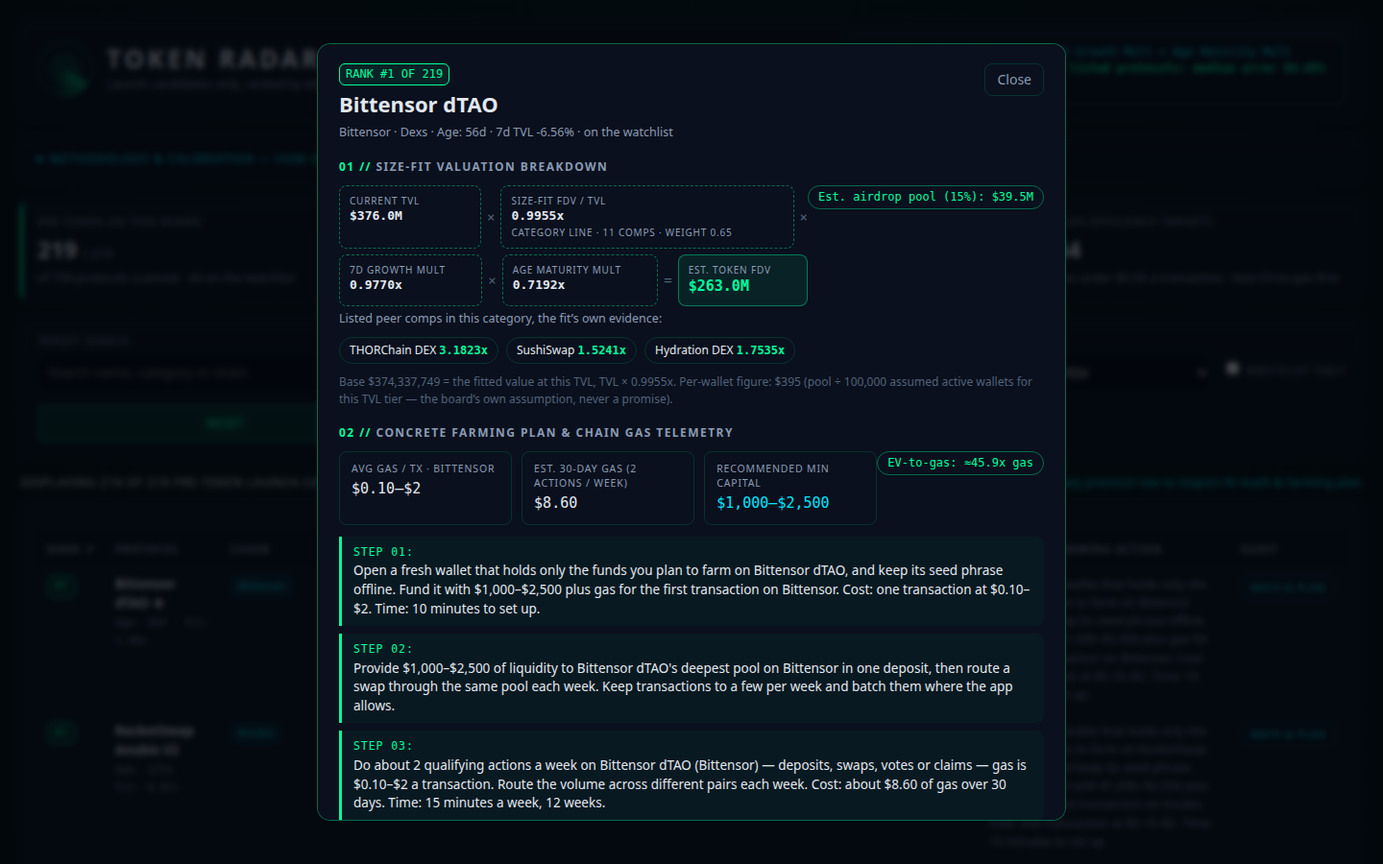
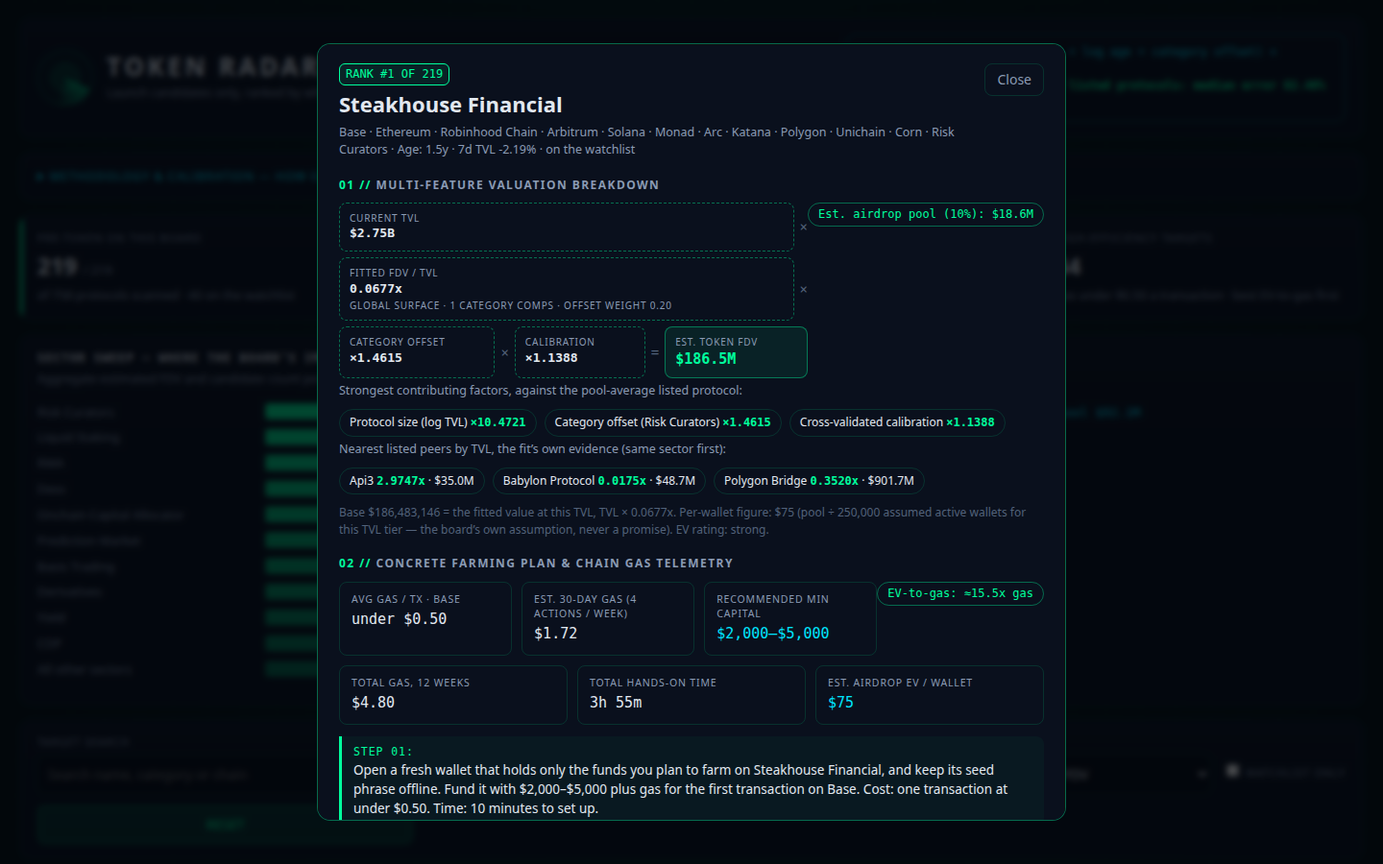
Radar v3 dashboard: sector sweep, EV sorts, plan export, v3 audit view
- Methodology & Calibration rewritten for the selected-pipeline model:
  all eight candidate CV scores, fitted coefficients, trim count,
  calibration multiplier, and the LOO backtest beside v2 (84.65%) and
  v1 (91.81%); growth and chain count documented as tested and rejected.
- Sector Sweep panel: inline SVG bars of aggregate implied FDV, row
  count and airdrop pool per sector, from the board's own fitted values.
- Sorts by airdrop EV per wallet and by EV-to-gas efficiency.
- Detail view shows the factor breakdown (fitted multiple, category
  offset, calibration), top contributing factors and nearest-size peer
  comps, plus 12-week gas total and total hands-on time; EXPORT THIS
  PLAN downloads the visible farm plan as a text file (Blob, offline).
- Screenshots regenerated from the new dashboard (Playwright 1440x900);
  smoke tests cover search, filters, EV sort, sector chart, export.

diff --git a/dashboard/app.js b/dashboard/app.js
@@ -34,6 +34,12 @@
     if (days >= 365) return (days / 365).toFixed(1) + 'y';
     return Math.max(0, Math.round(days)) + 'd';
   }
+  function fmtMinutes(min) {
+    if (min === null || min === undefined || !isFinite(min)) return 'n/a';
+    if (min < 60) return min + ' min';
+    var h = Math.floor(min / 60), m = min % 60;
+    return m > 0 ? h + 'h ' + m + 'm' : h + 'h';
+  }
   function esc(s) { return String(s).replace(/[&<>"]/g, function (c) { return { '&': '&amp;', '<': '&lt;', '>': '&gt;', '"': '&quot;' }[c]; }); }
 
   function el(tag, attrs) {
@@ -107,6 +113,7 @@
       else if (key === 'growth') { av = a.change_7d === null ? -Infinity : a.change_7d; bv = b.change_7d === null ? -Infinity : b.change_7d; }
       else if (key === 'age') { av = a.age_days === null ? Infinity : a.age_days; bv = b.age_days === null ? Infinity : b.age_days; }
       else if (key === 'gas') { av = a.gas.gas_30d_usd; bv = b.gas.gas_30d_usd; }
+      else if (key === 'ev') { av = a.airdrop.per_wallet_usd; bv = b.airdrop.per_wallet_usd; }
       else if (key === 'efficiency') { av = a.gas.ev_gas_multiple === null ? -Infinity : a.gas.ev_gas_multiple; bv = b.gas.ev_gas_multiple === null ? -Infinity : b.gas.ev_gas_multiple; }
       else if (key === 'name') { av = a.name.toLowerCase(); bv = b.name.toLowerCase(); }
       else if (key === 'category') { av = (a.category || 'Other').toLowerCase(); bv = (b.category || 'Other').toLowerCase(); }
@@ -128,9 +135,9 @@
         )
       ),
       el('div', { class: 'formula-pill' },
-        'Est. FDV = Size-Fit Value \u00D7 7d Growth Mult \u00D7 Age Maturity Mult',
+        'Est. FDV = exp(fit on log TVL + log age + category offset) \u00D7 calibration',
         el('br'),
-        el('b', { text: 'Leave-one-out backtest on ' + DATA.backtest.tested + ' listed protocols: median error ' + DATA.backtest.mdape_pct.toFixed(2) + '% \u00B7 previous model ' + DATA.backtest.previous_mdape_pct.toFixed(2) + '%' })
+        el('b', { text: 'Leave-one-out backtest on ' + DATA.backtest.tested + ' listed protocols: median error ' + DATA.backtest.mdape_pct.toFixed(2) + '% \u00B7 v2 ' + DATA.backtest.previous_mdape_pct.toFixed(2) + '% \u00B7 v1 ' + DATA.backtest.first_mdape_pct.toFixed(2) + '%' })
       )
     );
   }
@@ -139,20 +146,63 @@
     var c = DATA.comps;
     var u = DATA.universe;
     var f = DATA.fit;
+    var coef = f.coefficients;
+    var chosenCv = null;
+    f.candidates.forEach(function (cand) { if (cand.chosen) chosenCv = cand.cv_mdape_pct; });
+    var candLines = f.candidates.map(function (cand) {
+      return cand.label + ' \u2014 CV ' + cand.cv_mdape_pct.toFixed(2) + '%' + (cand.chosen ? ' (chosen)' : '');
+    }).join('; ');
     var cells = [
       ['Universe', 'Launch candidates only: ' + DATA.board_size + ' of ' + DATA.pre_token_size + ' pre-token protocols. ' + u.excluded_categories.join(', ') + ' are out: venues and asset movers whose tokens already exist, or claims on existing assets. Of the rest, a protocol qualifies when its category holds at least ' + u.min_category_comps + ' live comps, when it sits on the watchlist, or when its TVL is at least ' + fmtUsd(u.min_tvl_usd) + '. All ' + DATA.watchlist_size + ' watchlist protocols are on the board.'],
-      ['Size fit', 'log(market cap) = ' + f.global_intercept.toFixed(4) + ' + ' + f.global_slope.toFixed(4) + ' \u00D7 log(TVL), fitted on ' + c.pool_size + ' live-token protocols across ' + c.categories_with_comps + ' categories with robust Huber weights, so one outsized listing cannot bend the line. A slope under 1 means value grows slower than TVL.'],
-      ['Category blend', 'A category with at least ' + DATA.config.category_line_min_comps + ' comps gets its own fitted line, blended with the global line at weight n/(n+' + DATA.config.blend_shrink_k + ') on the category. Below that, the global line stands plus the category\u2019s median residual, shrunk by the same weight. ' + f.line_categories + ' categories carry their own line; ' + f.offset_categories + ' ride the global line with an offset.'],
-      ['Backtest', 'Leave-one-out on all ' + DATA.backtest.tested + ' listed protocols: each market cap is predicted from a fit that excludes it, growth and maturity left out. Median error ' + DATA.backtest.mdape_pct.toFixed(2) + '%, median signed error ' + fmtPct(DATA.backtest.median_signed_pct) + '. The previous model, category median multiples, posted a median error of ' + DATA.backtest.previous_mdape_pct.toFixed(2) + '%.'],
-      ['Growth', '1 + clamp(7-day TVL change, \u221250%, +100%) / 100 \u00D7 ' + DATA.config.growth_weight + '. A missing 7-day change counts as no growth (multiplier 1).'],
-      ['Maturity', '0.70 + 0.50 \u00D7 min(age in days, 1460) / 1460. A protocol with no listing date uses 0.95: no bonus, no penalty beyond it.'],
-      ['Own claims', 'Implied values, airdrop pools and per-wallet figures are this board\u2019s own claims, never prices or promises. Airdrop pool: 15% of implied value for Dexs / Lending / Yield, 5% for CEX / Bridge, 10% otherwise. Per-wallet divides the pool by a rough active-wallet count by TVL tier (15k\u2013250k).']
+      ['Model selection', 'Eight candidate pipelines \u2014 feature set (log TVL alone, + log age, + age as a fraction of four years, + an age-missing flag) \u00D7 category shrinkage (k = 3, 4, 6) \u00D7 trimmed or untrimmed fit \u2014 are scored by 5-fold cross-validation on the ' + c.pool_size + ' listed protocols. A challenger replaces the default only when it scores better by more than ' + DATA.config.selection_margin_pct + ' points. On this snapshot the default stands: ' + f.chosen_label + (chosenCv !== null ? ', CV median error ' + chosenCv.toFixed(2) + '%' : '') + '. All eight scores: ' + candLines + '.'],
+      ['The fit', 'log(market cap) is fitted on log TVL and the chosen age term with robust Huber weights, then refitted on the points inside 2.2 median-absolute-deviation sigmas \u2014 ' + f.trimmed_count + ' of ' + c.pool_size + ' comps sit outside and are trimmed as outsized. Fitted coefficients on this snapshot: ' + coef.log_tvl.toFixed(4) + ' per unit of log TVL' + (coef.age !== null && coef.age !== undefined ? ', ' + coef.age.toFixed(4) + ' per unit of the age term' : '') + ', around a centred intercept of ' + coef.intercept_at_pool_mean.toFixed(4) + ' (the prediction at the pool-average profile, before offsets and calibration).'],
+      ['Category offsets', 'Each category adds its median residual to the global surface, shrunk by n/(n+' + f.cat_k + '): a category with 4 comps counts half its offset, one with 36 counts nine-tenths. ' + c.categories_with_comps + ' categories carry an offset; a protocol in a category with no listed comps prices off the global surface alone.'],
+      ['Calibration', 'A constant multiplier of ' + f.calibration_factor.toFixed(4) + ' is applied to every fitted value: the log-space shift that zeroes the median signed percentage error of the pipeline\u2019s own out-of-fold predictions on the listed protocols. It corrects the small systematic tilt a trimmed fit leaves behind.'],
+      ['Backtest', 'Leave-one-out on all ' + DATA.backtest.tested + ' listed protocols: each market cap is predicted by the full procedure \u2014 selection, calibration, fit \u2014 run without it. Median error ' + DATA.backtest.mdape_pct.toFixed(2) + '%, median signed error ' + fmtPct(DATA.backtest.median_signed_pct) + '. The previous models scored worse on the same grade: v2 size fit ' + DATA.backtest.previous_mdape_pct.toFixed(2) + '%, v1 category medians ' + DATA.backtest.first_mdape_pct.toFixed(2) + '%.'],
+      ['Tested and rejected', 'Two snapshot fields are not in the price, because cross-validation scored them worse during development: 7-day TVL growth and chain count. Both still show on the board as data \u2014 the growth column and the chain tags \u2014 but neither moves a fitted value.'],
+      ['Own claims', 'Implied values, airdrop pools and per-wallet figures are this board\u2019s own claims, never prices or promises. Airdrop pool: 15% of implied value for Dexs / Lending / Yield, 5% for CEX / Bridge, 10% otherwise \u2014 the 5\u201315% band each farm plan states. Per-wallet divides the pool by a rough active-wallet count by TVL tier (15k\u2013250k).']
     ];
     return el('details', { class: 'method panel' },
       el('summary', { text: 'Methodology & Calibration \u2014 how each number is earned' }),
       el('div', { class: 'grid' }, cells.map(function (pair) {
         return el('div', { class: 'cell' }, el('b', { text: pair[0] }), document.createTextNode(pair[1]));
       }))
+    );
+  }
+
+  function sectorPanel() {
+    var byCat = {};
+    DATA.rows.forEach(function (r) {
+      var key = r.category || 'Other';
+      if (!byCat[key]) byCat[key] = { count: 0, fdv: 0, pool: 0 };
+      byCat[key].count += 1;
+      byCat[key].fdv += r.implied_value_usd;
+      byCat[key].pool += r.airdrop.pool_usd;
+    });
+    var cats = Object.keys(byCat).map(function (k) { return { name: k, count: byCat[k].count, fdv: byCat[k].fdv, pool: byCat[k].pool }; });
+    cats.sort(function (a, b) { return b.fdv - a.fdv; });
+    var top = cats.slice(0, 10);
+    if (cats.length > 10) {
+      var rest = { name: 'All other sectors', count: 0, fdv: 0, pool: 0 };
+      cats.slice(10).forEach(function (c) { rest.count += c.count; rest.fdv += c.fdv; rest.pool += c.pool; });
+      top.push(rest);
+    }
+    var max = top.length ? top[0].fdv : 1;
+    var W = 1320, rowH = 26, H = top.length * rowH + 8;
+    var svg = '<svg viewBox="0 0 ' + W + ' ' + H + '" width="100%" role="img" aria-label="Board value by sector">';
+    top.forEach(function (c, i) {
+      var y = 6 + i * rowH;
+      var w = Math.max(2, Math.round((c.fdv / max) * 640));
+      var op = (0.95 - i * 0.055).toFixed(2);
+      svg += '<text x="0" y="' + (y + 13) + '" class="svg-lab">' + esc(c.name) + '</text>';
+      svg += '<rect x="230" y="' + y + '" width="' + w + '" height="16" rx="3" fill="#00FF9D" opacity="' + op + '"></rect>';
+      svg += '<text x="' + (240 + w) + '" y="' + (y + 13) + '" class="svg-val">' + esc(fmtUsd(c.fdv)) + ' \u00B7 ' + c.count + ' rows \u00B7 pool ' + esc(fmtUsd(c.pool)) + '</text>';
+    });
+    svg += '</svg>';
+    return el('section', { class: 'panel sector-panel' },
+      el('h3', { class: 'mono', text: 'SECTOR SWEEP \u2014 WHERE THE BOARD\u2019S IMPLIED VALUE SITS' }),
+      el('p', { class: 'sub', text: 'Aggregate estimated FDV and candidate count per sector, from the same fitted values as the board. The widest bar is the sector carrying the most pre-token value.' }),
+      el('div', { class: 'svg-wrap', html: svg })
     );
   }
 
@@ -195,8 +245,9 @@
     var sortSel = el('select', { id: 'sort', 'aria-label': 'Sort the board' },
       opt('implied', 'Est. FDV', state.sort),
       opt('tvl', 'TVL', state.sort),
-      opt('growth', '7d Growth', state.sort),
+      opt('ev', 'Airdrop EV / wallet', state.sort),
       opt('efficiency', 'EV / Gas Efficiency', state.sort),
+      opt('growth', '7d Growth', state.sort),
       opt('age', 'Age', state.sort),
       opt('gas', '30d Gas (low first)', state.sort));
     sortSel.addEventListener('change', function () { state.sort = sortSel.value; state.dir = state.sort === 'gas' ? 1 : -1; writeHash(); update(); });
@@ -303,7 +354,7 @@
     });
     return el('section', { class: 'panel live-table' },
       el('h3', { class: 'mono', text: 'COMPS EVIDENCE \u2014 TOP 24 LIVE-TOKEN PROTOCOLS BY MARKET CAP' }),
-      el('p', { class: 'sub', text: 'These protocols already trade. The size fit is fitted on their market caps and TVLs \u2014 the market\u2019s own values, set apart from the pre-token ranking.' }),
+      el('p', { class: 'sub', text: 'These protocols already trade. The fit is fitted on their market caps and TVLs \u2014 the market\u2019s own values, set apart from the pre-token ranking.' }),
       el('div', { class: 'table-wrap' },
         el('table', null,
           el('thead', null, el('tr', null,
@@ -313,6 +364,37 @@
         )
       )
     );
+  }
+
+  // ---- farm plan export ---------------------------------------------------
+  function planText(row) {
+    var m = row.model;
+    var eff = row.gas.ev_gas_multiple;
+    var lines = [
+      'TOKEN RADAR \u2014 FARM PLAN',
+      row.name + ' \u00B7 rank #' + row.rank + ' of ' + DATA.board_size + ' \u00B7 ' + (row.category || 'Other') + ' \u00B7 ' + (row.chains || []).join(', '),
+      'Snapshot ' + DATA.as_of + ' \u00B7 model ' + DATA.model_version + ' (' + DATA.fit.chosen_label + ')',
+      '',
+      'Est. token FDV: ' + fmtNum(row.implied_value_usd) + ' (fitted multiple ' + m.fitted_multiple.toFixed(4) + 'x, ' + m.fit_source + ' fit, ' + m.comp_count + ' category comps, offset weight ' + m.fit_weight.toFixed(2) + ')',
+      'Airdrop pool (' + Math.round(row.airdrop.share_pct * 100) + '% of FDV): ' + fmtNum(row.airdrop.pool_usd) + ' \u00B7 per wallet ' + fmtNum(row.airdrop.per_wallet_usd) + ' across ' + row.airdrop.wallets_assumed.toLocaleString('en-US') + ' assumed wallets',
+      'EV-to-gas: ' + (eff === null ? 'n/a' : eff + 'x') + ' (' + row.airdrop.ev_rating + ') \u00B7 gas ' + row.gas.cost_label + ' per tx \u00B7 ' + fmtGas(row.gas.gas_30d_usd) + ' per 30 days \u00B7 ' + fmtGas(row.gas.total_plan_gas_usd) + ' over 12 weeks',
+      'Capital: ' + row.capital_range + ' \u00B7 hands-on time: about ' + fmtMinutes(row.total_minutes) + ' over 12 weeks',
+      '',
+      'Steps:'
+    ];
+    row.farm_steps.forEach(function (s, i) { lines.push((i + 1) + '. ' + s); });
+    lines.push('');
+    lines.push('Implied values and airdrop figures are this board\u2019s own claims, never prices or promises.');
+    return lines.join('\n');
+  }
+  function exportPlan(row) {
+    var blob = new Blob([planText(row)], { type: 'text/plain' });
+    var url = URL.createObjectURL(blob);
+    var a = el('a', { href: url, download: row.slug + '-farm-plan.txt' });
+    document.body.appendChild(a);
+    a.click();
+    a.remove();
+    setTimeout(function () { URL.revokeObjectURL(url); }, 1000);
   }
 
   // ---- detail modal -------------------------------------------------------
@@ -335,18 +417,21 @@
     var formula = el('div', { class: 'formula-bar' },
       el('div', { class: 'step' }, el('span', { class: 'lab', text: 'Current TVL' }), el('b', { text: fmtUsd(row.tvl_usd) })),
       el('span', { class: 'op', text: '\u00D7' }),
-      el('div', { class: 'step' }, el('span', { class: 'lab', text: 'Size-fit FDV / TVL' }), el('b', { text: m.fitted_multiple.toFixed(4) + 'x' }), el('span', { class: 'lab', text: m.fit_source === 'category' ? 'category line \u00B7 ' + m.comp_count + ' comps \u00B7 weight ' + m.fit_weight.toFixed(2) : 'global line \u00B7 ' + m.comp_count + ' category comps' })),
+      el('div', { class: 'step' }, el('span', { class: 'lab', text: 'Fitted FDV / TVL' }), el('b', { text: m.fitted_multiple.toFixed(4) + 'x' }), el('span', { class: 'lab', text: m.fit_source === 'category' ? 'category offset carries \u00B7 ' + m.comp_count + ' comps \u00B7 weight ' + m.fit_weight.toFixed(2) : 'global surface \u00B7 ' + m.comp_count + ' category comps \u00B7 offset weight ' + m.fit_weight.toFixed(2) })),
       el('span', { class: 'op', text: '\u00D7' }),
-      el('div', { class: 'step' }, el('span', { class: 'lab', text: '7d Growth Mult' }), el('b', { text: m.growth_multiplier.toFixed(4) + 'x' })),
+      el('div', { class: 'step' }, el('span', { class: 'lab', text: 'Category Offset' }), el('b', { text: '\u00D7' + m.category_factor.toFixed(4) })),
       el('span', { class: 'op', text: '\u00D7' }),
-      el('div', { class: 'step' }, el('span', { class: 'lab', text: 'Age Maturity Mult' }), el('b', { text: m.maturity_multiplier.toFixed(4) + 'x' })),
+      el('div', { class: 'step' }, el('span', { class: 'lab', text: 'Calibration' }), el('b', { text: '\u00D7' + m.calibration_factor.toFixed(4) })),
       el('span', { class: 'op', text: '=' }),
       el('div', { class: 'step result' }, el('span', { class: 'lab', text: 'Est. Token FDV' }), el('b', { text: fmtUsd(row.implied_value_usd) }))
     );
-    var peers = el('div', { class: 'peers' }, m.peers.map(function (p) {
-      return el('span', { class: 'peer' }, document.createTextNode(p.name + ' '), el('b', { text: p.ratio.toFixed(4) + 'x' }));
+    var factors = el('div', { class: 'peers' }, m.factors.map(function (f) {
+      return el('span', { class: 'peer' }, document.createTextNode(f.label + ' '), el('b', { text: '\u00D7' + f.factor.toFixed(4) }));
     }));
-    if (m.floor_estimate) peers.appendChild(el('span', { class: 'peer', text: 'Floor estimate: no positive TVL on record, priced from the global fit at the category median TVL' }));
+    var peers = el('div', { class: 'peers' }, m.peers.map(function (p) {
+      return el('span', { class: 'peer' }, document.createTextNode(p.name + ' '), el('b', { text: p.ratio.toFixed(4) + 'x' }), document.createTextNode(' \u00B7 ' + fmtUsd(p.mcap_usd)));
+    }));
+    if (m.floor_estimate) peers.appendChild(el('span', { class: 'peer', text: 'Floor estimate: no positive TVL on record, priced from the fit at the category median TVL' }));
     var steps = el('ol', { class: 'steps' }, row.farm_steps.map(function (s, i) {
       return el('li', null, el('span', { class: 'step-no', text: 'STEP 0' + (i + 1) + ':' }), document.createTextNode(s));
     }));
@@ -360,12 +445,14 @@
         el('button', { class: 'close', type: 'button', 'aria-label': 'Close details', text: 'Close', onclick: function () { dialog.close(); } })
       ),
       el('section', { class: 'sec' },
-        el('h3', null, el('span', { text: '01 // ' }), document.createTextNode('Size-fit valuation breakdown')),
+        el('h3', null, el('span', { text: '01 // ' }), document.createTextNode('Multi-feature valuation breakdown')),
         el('span', { class: 'eff-badge', text: 'Est. airdrop pool (' + Math.round(row.airdrop.share_pct * 100) + '%): ' + fmtUsd(row.airdrop.pool_usd) }),
         formula,
-        el('p', { class: 'sub', text: 'Listed peer comps in this category, the fit\u2019s own evidence:' }),
+        el('p', { class: 'sub', text: 'Strongest contributing factors, against the pool-average listed protocol:' }),
+        factors,
+        el('p', { class: 'sub', text: 'Nearest listed peers by TVL, the fit\u2019s own evidence (same sector first):' }),
         peers,
-        el('p', { class: 'note', text: 'Base ' + fmtNum(m.base_usd) + ' = the fitted value at this TVL, TVL \u00D7 ' + m.fitted_multiple.toFixed(4) + 'x. Per-wallet figure: ' + fmtUsd(row.airdrop.per_wallet_usd) + ' (pool \u00F7 ' + row.airdrop.wallets_assumed.toLocaleString('en-US') + ' assumed active wallets for this TVL tier \u2014 the board\u2019s own assumption, never a promise).' })
+        el('p', { class: 'note', text: 'Base ' + fmtNum(m.base_usd) + ' = the fitted value at this TVL, TVL \u00D7 ' + m.fitted_multiple.toFixed(4) + 'x. Per-wallet figure: ' + fmtUsd(row.airdrop.per_wallet_usd) + ' (pool \u00F7 ' + row.airdrop.wallets_assumed.toLocaleString('en-US') + ' assumed active wallets for this TVL tier \u2014 the board\u2019s own assumption, never a promise). EV rating: ' + row.airdrop.ev_rating + '.' })
       ),
       el('section', { class: 'sec' },
         el('h3', null, el('span', { text: '02 // ' }), document.createTextNode('Concrete farming plan & chain gas telemetry')),
@@ -375,7 +462,13 @@
           el('div', { class: 'cell' }, el('div', { class: 'lab', text: 'Est. 30-day gas (' + row.gas.actions_per_week + ' actions / week)' }), el('div', { class: 'val', text: fmtGas(row.gas.gas_30d_usd) })),
           el('div', { class: 'cell' }, el('div', { class: 'lab', text: 'Recommended min capital' }), el('div', { class: 'val cyn', text: row.capital_range }))
         ),
-        steps
+        el('div', { class: 'stats3' },
+          el('div', { class: 'cell' }, el('div', { class: 'lab', text: 'Total gas, 12 weeks' }), el('div', { class: 'val', text: fmtGas(row.gas.total_plan_gas_usd) })),
+          el('div', { class: 'cell' }, el('div', { class: 'lab', text: 'Total hands-on time' }), el('div', { class: 'val', text: fmtMinutes(row.total_minutes) })),
+          el('div', { class: 'cell' }, el('div', { class: 'lab', text: 'Est. airdrop EV / wallet' }), el('div', { class: 'val cyn', text: fmtUsd(row.airdrop.per_wallet_usd) }))
+        ),
+        steps,
+        el('button', { class: 'btn primary export-btn', type: 'button', text: 'EXPORT THIS PLAN (.TXT)', onclick: function () { exportPlan(row); } })
       )
     );
     dialog.appendChild(body);
@@ -404,6 +497,7 @@
     metaSlot = el('div', { class: 'meta' });
     tableSlot = el('div');
     shell.appendChild(kpiSlot);
+    shell.appendChild(sectorPanel());
     shell.appendChild(controls());
     shell.appendChild(metaSlot);
     shell.appendChild(tableSlot);

diff --git a/dashboard/app.css b/dashboard/app.css
@@ -111,6 +111,14 @@ dialog.detail::backdrop{background:rgba(2,4,8,.72);backdrop-filter:blur(3px)}
 ol.steps{list-style:none;margin:12px 0 0;padding:0}
 ol.steps li{border-left:3px solid var(--grn);padding:8px 12px;margin-bottom:8px;background:rgba(0,255,157,.04);border-radius:0 8px 8px 0;font-size:13.5px}
 ol.steps li .step-no{font-family:var(--mono);color:var(--grn);font-size:11.5px;letter-spacing:.08em;display:block;margin-bottom:2px}
+/* sector sweep */
+.sector-panel{margin-top:14px}
+.sector-panel h3{font-size:12px;letter-spacing:.1em;color:var(--tx);margin:0 0 4px}
+.svg-wrap{margin-top:10px;overflow-x:auto}
+.svg-wrap svg{display:block;min-width:760px}
+.svg-lab{fill:var(--tx2);font-size:12.5px;font-family:var(--sans)}
+.svg-val{fill:var(--cyn);font-size:12.5px;font-family:var(--mono)}
+.export-btn{margin-top:12px}
 /* live evidence */
 .live-table{margin-top:14px}
 .live-table table{font-size:12.5px}

diff --git a/README.md b/README.md
@@ -1,9 +1,10 @@
-# Token Radar — size-fitted token launch radar
+# Token Radar — cross-validated token launch radar
 
 A ranked board of 219 pre-token launch candidates drawn from the sealed
-DefiLlama snapshot, each with an implied token value from a valuation
-model fitted to protocol size and a concrete 5-step farm plan, plus a
-filterable dashboard with a per-protocol detail view.
+DefiLlama snapshot, each with an implied token value from a multi-feature
+valuation model selected by cross-validation and a concrete 6-step farm
+plan, plus a filterable dashboard with a per-protocol detail view, a
+sector sweep chart and a farm-plan export.
 
 ## The model (5 lines)
 
@@ -13,21 +14,27 @@ filterable dashboard with a per-protocol detail view.
    protocols, one boards when its category holds at least 3 live comps,
    when it sits on the snapshot watchlist, or when its TVL is at least
    $20M. All 40 watchlist protocols are on the board.
-2. **Size fit:** log(market cap) = a + b × log(TVL), fitted on the 128
-   live-token protocols with robust Huber weights, so one outsized
-   listing cannot bend the line. A category with at least 8 comps blends
-   in its own fitted line at weight n/(n+6); below that, the global line
-   stands plus the category's median residual, shrunk by the same
-   weight. The fitted slope is under 1: value grows slower than TVL.
-3. **Growth:** × (1 + clamp(7-day TVL change, −50%, +100%) × 0.35).
-4. **Maturity:** × (0.70 + 0.50 × min(age in days, 1460) / 1460); age
-   unknown → 0.95.
-5. **Backtest:** leave-one-out on all 128 listed protocols — each
-   market cap predicted from a fit that excludes it. Median error
-   84.65%, median signed error +0.11%. The previous model (category
-   median multiples) posted 91.81%. Farm plans stay 5 steps per row
-   from category playbook × TVL tier × primary-chain gas tier, with a
-   30-day gas total and an EV-to-gas rating.
+2. **Selection:** eight candidate pipelines (feature set × category
+   shrinkage × trimmed or untrimmed fit) are scored by 5-fold
+   cross-validation on the 128 live-token protocols; a challenger
+   replaces the default only when it scores better by more than 1.5
+   points. On this snapshot the default stands: log TVL + log age,
+   offset k=4, trimmed.
+3. **Fit:** log(market cap) on log TVL and log age, Huber-robust, then
+   refitted on the points inside 2.2 MAD sigmas; each category adds its
+   median residual shrunk by n/(n+4). A calibration multiplier (×1.1388
+   on this snapshot) zeroes the median signed error of the pipeline's
+   own out-of-fold predictions. 7-day growth and chain count were
+   tested and rejected by cross-validation — they are shown as data,
+   not used in the price.
+4. **Backtest:** leave-one-out on all 128 listed protocols — the full
+   procedure (selection, calibration, fit) rerun without each protocol
+   in turn. Median error 82.48%, median signed error +5.85%. The v2
+   size fit posted 84.65%; the v1 category-median model 91.81%.
+5. **Farm plans:** 6 steps per row from the protocol's own category,
+   chains and TVL tier, with per-step and total gas, total hands-on
+   time, an airdrop pool of 5–15% of implied FDV by category, a
+   per-wallet EV figure and an EV-to-gas rating.
 
 Implied values are this board's own claims, never prices or promises.
 
@@ -44,7 +51,7 @@ network). Output: `board.json`, `data.js`, `dashboard/`, `screenshots/`,
 ## Layout
 
 - `main.ts` — entrypoint: reads the snapshot, builds the board, writes outputs.
-- `lib/model.ts` — the size-fit model, backtest, gas tiers and farm plans.
+- `lib/model.ts` — the cross-validated fit, backtest, gas tiers and farm plans.
 - `vendor/makefun-board.ts` — make.fun's dossier library (verbatim).
 - `dashboard/` — the static page (index.html, app.css, app.js; no network).
 - `screenshots/` — three renders of the page with the real board data.
